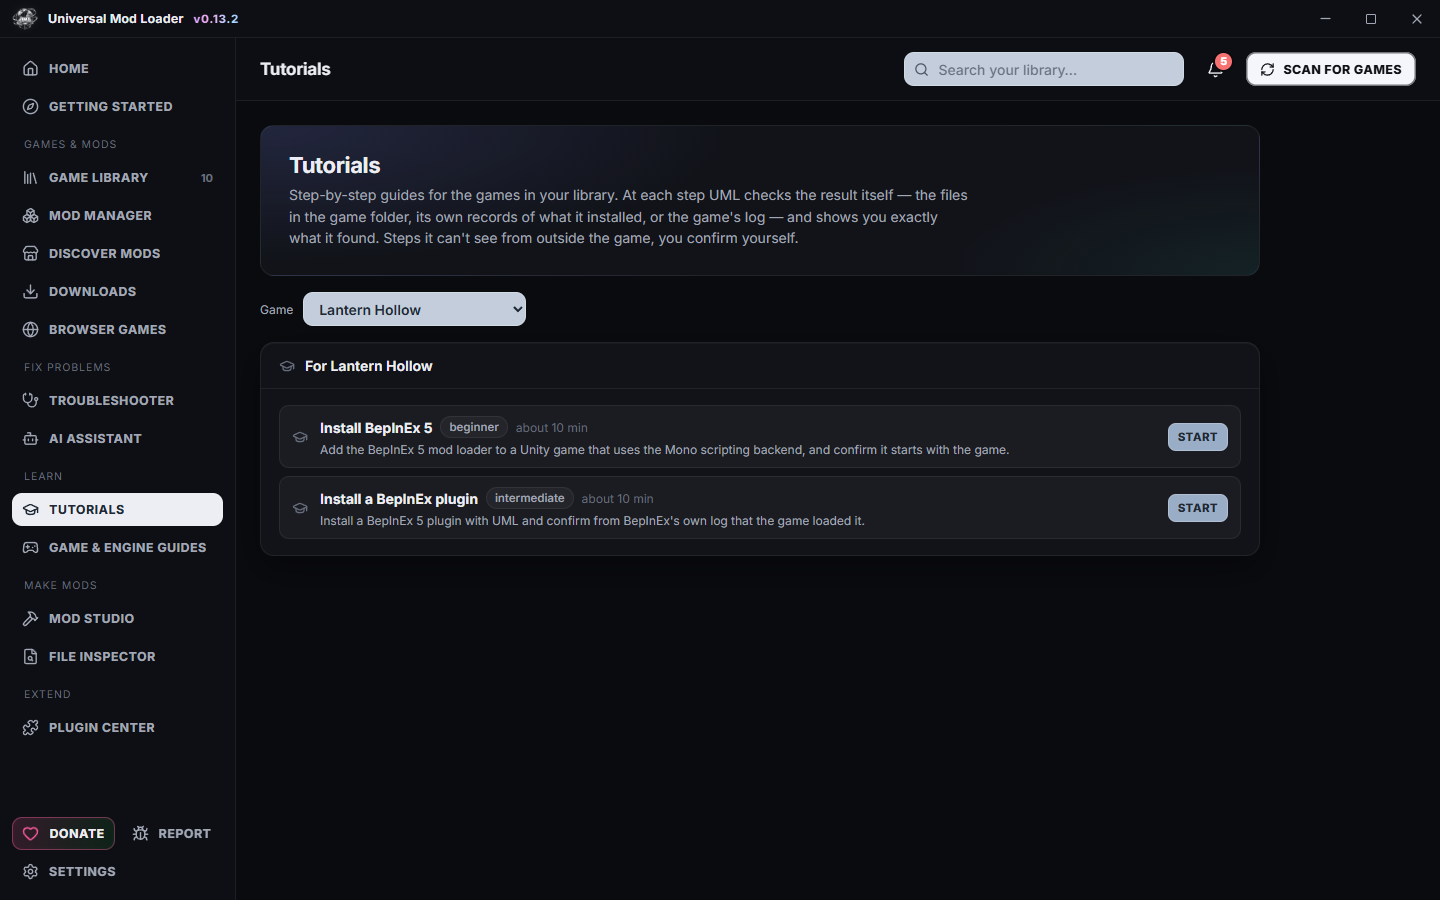
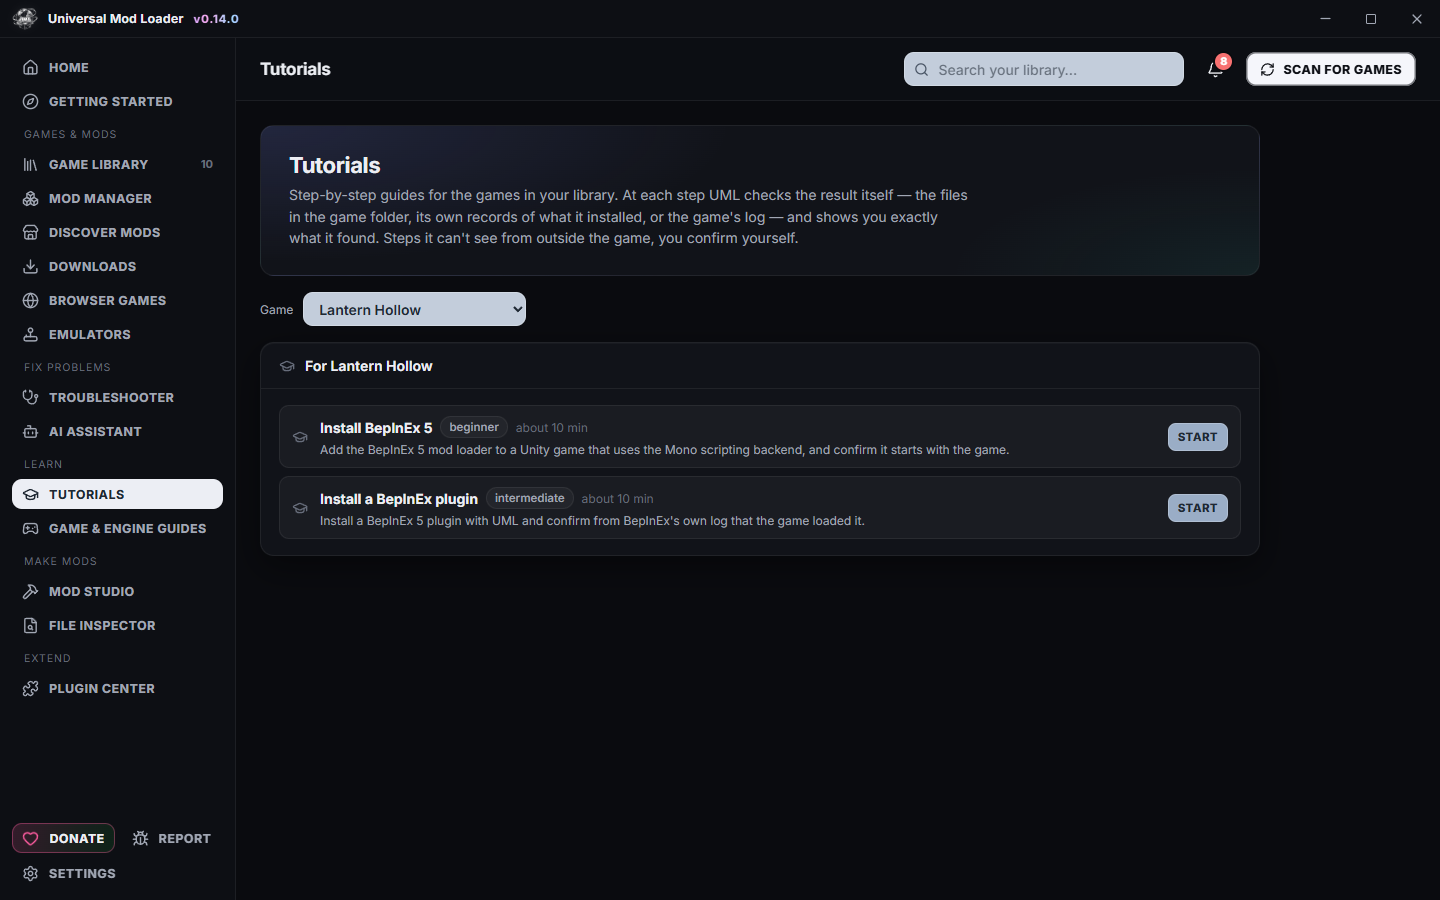
Update README

Changed region(s): [[0.0, 0.4356, 0.1562, 0.8089], [0.0, 0.0622, 0.125, 0.3733], [0.0, 0.9022, 0.1562, 0.9956]]

diff --git a/README.md b/README.md
@@ -29,6 +29,7 @@ UML finds the games installed on your PC, identifies what each one is built with
 | **Mod creation** | Mod Studio creates projects from templates, builds them, validates the result and packages it for distribution. |
 | **File inspection** | A read-only inspector for game files and archives, with previews of textures, sounds, text and 3D models. |
 | **Browser games** | Keeps your browser games alongside the rest of your library, opens each one in the browser you choose, and shows the engine and extension options of every installed browser. |
+| **Emulators** | Finds the emulators on your PC and installs emulator mods (Switch and 3DS game mods, texture packs, graphic packs and game patches) into each emulator's own folders, never replacing existing files. A ROM patcher applies IPS, BPS and UPS patches to a copy of your ROM. The emulator list covers 54 actively developed emulators with the games known for mods on each. UML never downloads games, BIOS files, firmware or keys. |
 | **Plugins** | Extends UML with additional detection rules, guides, install rules and more. Plugins contain data only and require your approval for each kind of change. |
 | **AI assistant** | Optional help with modding questions and crash reports, using your own Anthropic API key or a local model. You see exactly what is sent before anything leaves your PC. |
 | **Interface** | Dark and light themes, accent colours, Windows notifications and optional interface sounds. |
@@ -44,7 +45,8 @@ UML finds the games installed on your PC, identifies what each one is built with
 | ![Discover Mods](screenshots/06-discover-mods.png) **Discover Mods** | ![Troubleshooter](screenshots/07-troubleshooter.png) **Troubleshooter** |
 | ![Tutorials](screenshots/09-tutorials.png) **Tutorials** | ![Engine guides](screenshots/10-engine-guides.png) **Engine guides** |
 | ![Mod Studio](screenshots/11-mod-studio.png) **Mod Studio** | ![File Inspector](screenshots/12-file-inspector.png) **File Inspector** |
-| ![Browser games](screenshots/17-browser-games.png) **Browser games** | ![Plugin Center](screenshots/13-plugin-center.png) **Plugin Center** |
+| ![Browser games](screenshots/17-browser-games.png) **Browser games** | ![Emulators](screenshots/18-emulators.png) **Emulators** |
+| ![Emulator list](screenshots/19-emulator-list.png) **Emulator list** | ![Plugin Center](screenshots/13-plugin-center.png) **Plugin Center** |
 | ![AI assistant](screenshots/08-ai-assistant.png) **AI assistant** | ![Getting started](screenshots/14-getting-started.png) **Getting started** |
 | ![Settings](screenshots/15-settings.png) **Settings** | ![Light theme](screenshots/16-home-light-theme.png) **Light theme** |
 
